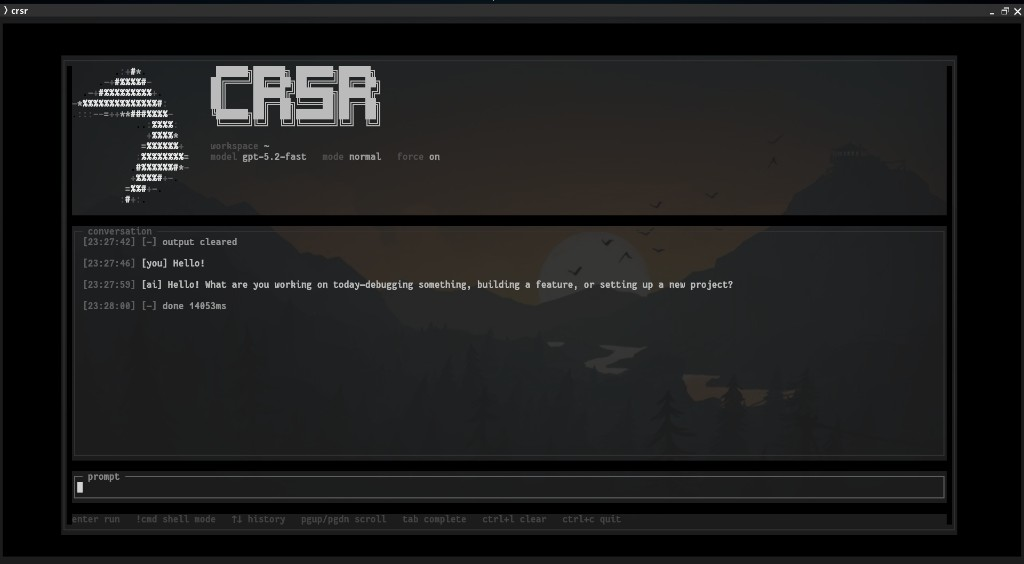
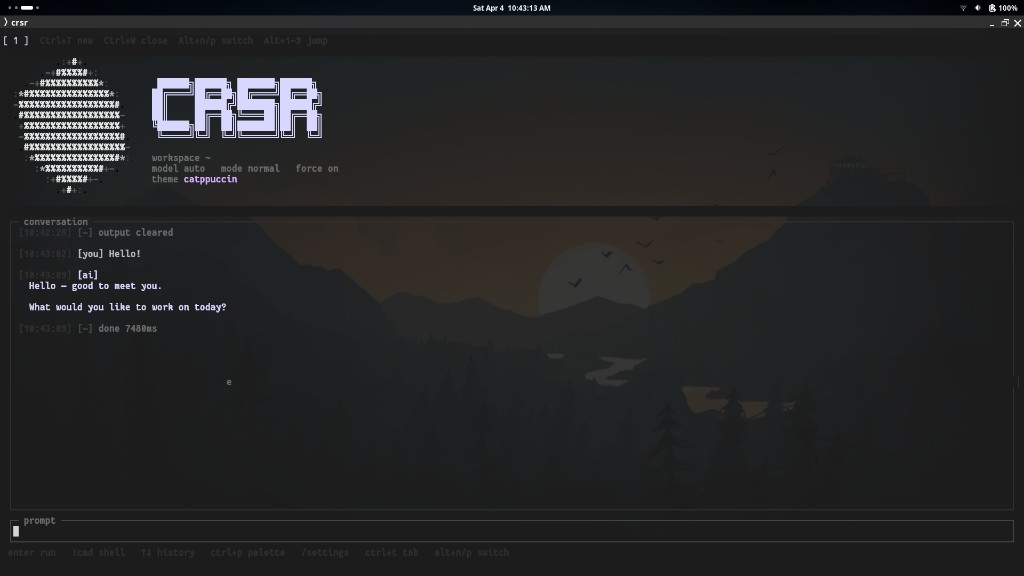
Update README screenshots with current TUI captures.
Replace the docs asset images with the latest screenshots, add the settings panel preview, and track the new PNG so GitHub renders the README correctly.

Made-with: Cursor

diff --git a/README.md b/README.md
@@ -20,13 +20,17 @@ It gives Cursor Agent a dedicated TUI with persistent session state, slash comma
 
 ![crsr launch screen](docs/assets/launch-screen.png)
 
+### Agent response
+
+![crsr agent response](docs/assets/agent-response.png)
+
 ### Shell mode
 
 ![crsr shell mode](docs/assets/shell-mode.png)
 
-### Agent response
+### Settings panel
 
-![crsr agent response](docs/assets/agent-response.png)
+![crsr settings panel](docs/assets/settings-panel.png)
 
 ## Core Features
 
